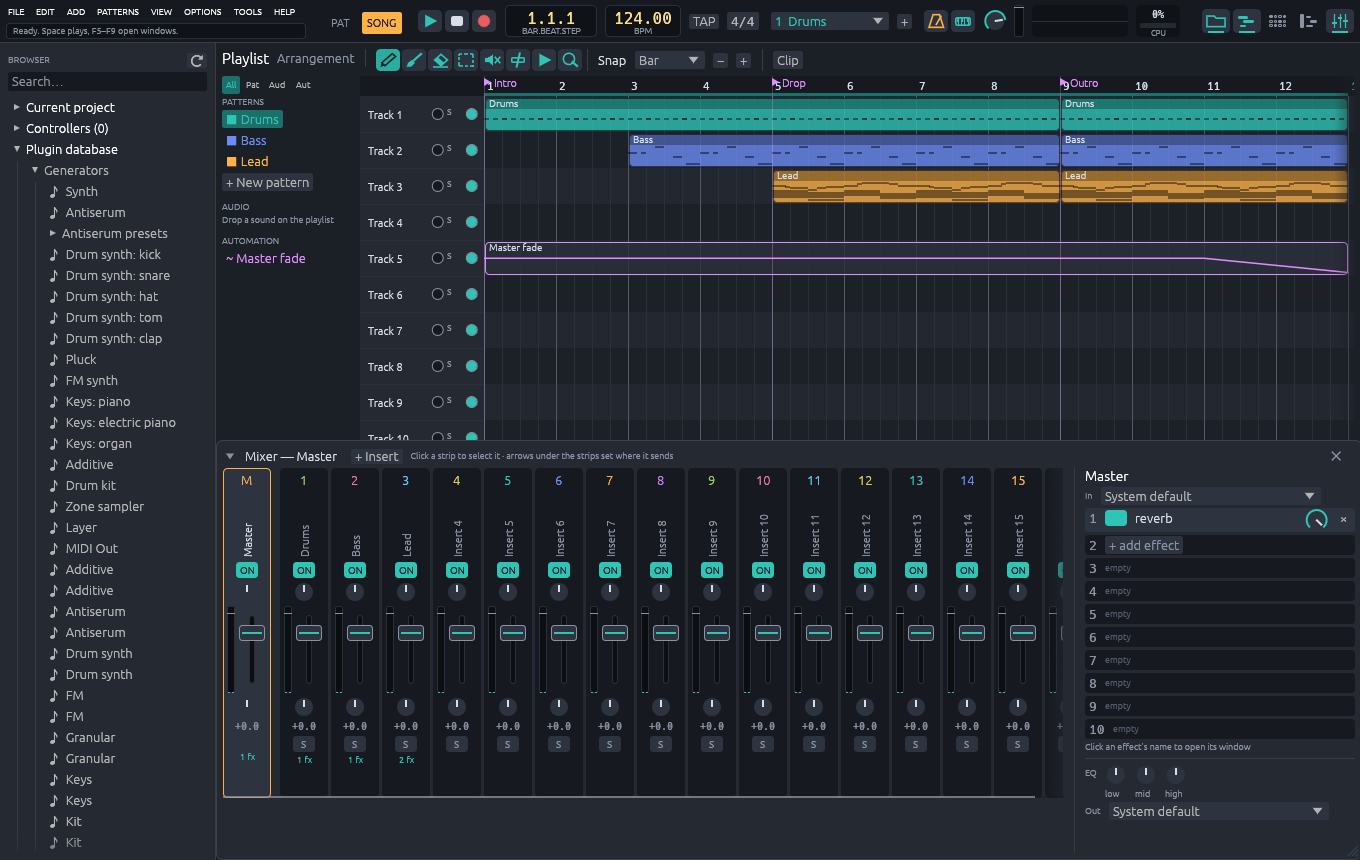
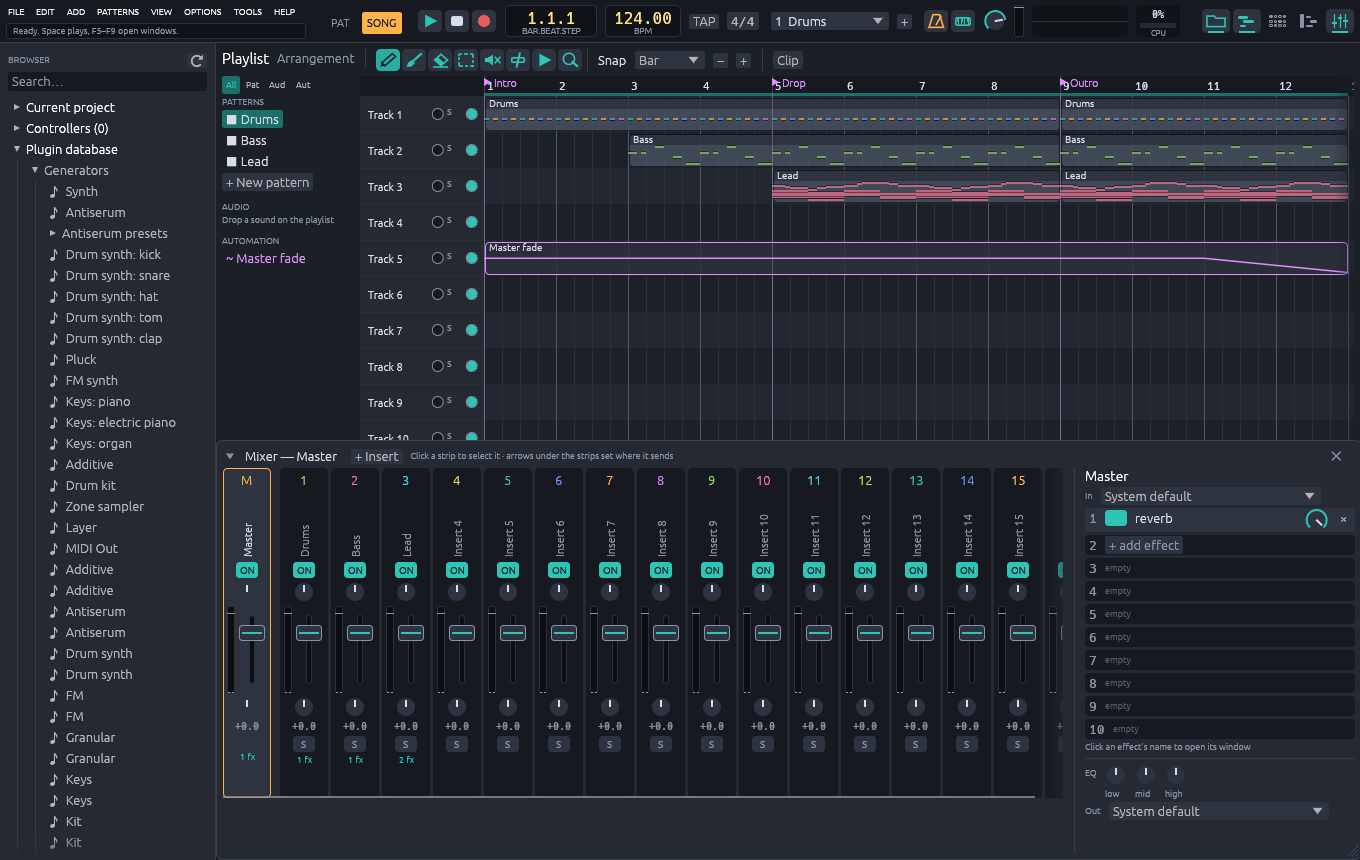
Patterns have no colour until one is set; clips show note colours
A pattern starts uncoloured. pattern.set_color <pattern> <1-16|none>
(undoable, also in the pattern list's right-click menu) gives it one.
Uncoloured clips are drawn in a neutral fill and pattern names in plain
text. Inside every pattern clip the notes are drawn in their own colours,
as in the piano roll (colour group, or the channel's colour), so one
pattern can show several.

Spec: docs/spec/playlist.md. README screenshots retaken.

Claude-Session: https://claude.ai/code/session_01X8R6FM9iA6hPcEY3geQZy2

Changed region(s): [[0.3397, 0.0907, 1.0, 0.2419], [0.1544, 0.1209, 0.1853, 0.2116], [0.5868, 0.0, 0.6176, 0.0302]]

diff --git a/crates/musiccraft-ui/src/playlist.rs b/crates/musiccraft-ui/src/playlist.rs
@@ -307,8 +307,8 @@ fn pattern_section(
             .show(ui, |ui| {
                 for (i, pattern) in project.patterns.iter().enumerate() {
                     let selected = i == project.current_pattern;
-                    let text =
-                        RichText::new(format!("■ {}", pattern.name)).color(theme::palette(i));
+                    let text = RichText::new(format!("■ {}", pattern.name))
+                        .color(crate::pattern_text(pattern));
                     let painting = state.playlist.paint_automation.is_none()
                         && state.playlist.paint_audio.is_none();
                     let response = ui.selectable_label(selected && painting, text);
@@ -334,6 +334,23 @@ fn pattern_section(
                             )));
                             ui.close();
                         }
+                        ui.menu_button("Colour", |ui| {
+                            let mut pick = |ui: &mut egui::Ui, text: RichText, arg: String| {
+                                if ui.button(text).clicked() {
+                                    actions.push(Action::Run(Invocation::new(
+                                        "pattern.set_color",
+                                        [(i + 1).to_string(), arg],
+                                    )));
+                                    ui.close();
+                                }
+                            };
+                            pick(ui, RichText::new("None"), "none".to_owned());
+                            for c in 0..16u8 {
+                                let text = RichText::new(format!("■ Colour {}", c + 1))
+                                    .color(theme::track_color(c));
+                                pick(ui, text, (c + 1).to_string());
+                            }
+                        });
                         let sig = pattern.time_signature;
                         ui.menu_button(format!("Time signature ({sig})…"), |ui| {
                             if let Some(new) =
@@ -623,10 +640,14 @@ fn draw_clip(
     let project = frame.project;
     let (color, name) = match clip.source {
         ClipSource::Pattern(id) => {
-            let index = project.pattern_position(id).unwrap_or(0);
+            let pattern = project
+                .pattern_position(id)
+                .and_then(|i| project.patterns.get(i));
             (
-                theme::palette(index),
-                project.patterns.get(index).map_or("", |p| p.name.as_str()),
+                pattern
+                    .and_then(crate::pattern_color)
+                    .unwrap_or(UNCOLOURED_CLIP),
+                pattern.map_or("", |p| p.name.as_str()),
             )
         }
         ClipSource::Automation(id) => (
@@ -697,7 +718,7 @@ fn draw_clip(
                 .pattern_position(id)
                 .and_then(|i| project.patterns.get(i))
             {
-                pattern_preview(painter, grid, pattern, body, start, length);
+                pattern_preview(painter, grid, project, pattern, body, (start, length));
             }
         }
         ClipSource::Automation(id) => {
@@ -765,13 +786,18 @@ fn draw_clip(
 const TITLE_HEIGHT: f32 = 11.0;
 
 /// Miniature of a pattern's notes, repeated across the clip.
+/// Fill of a clip whose pattern has no colour of its own.
+const UNCOLOURED_CLIP: Color32 = Color32::from_rgb(0x4a, 0x53, 0x63);
+
+/// The notes of `pattern` across a clip at `start` lasting `length`, each in
+/// its own colour as in the piano roll.
 fn pattern_preview(
     painter: &egui::Painter,
     grid: &Grid,
+    project: &Project,
     pattern: &musiccraft_project::Pattern,
     body: Rect,
-    start: u32,
-    length: u32,
+    (start, length): (u32, u32),
 ) {
     let period = pattern.length_ticks().max(1);
     let (lo, hi) = pattern
@@ -797,10 +823,17 @@ fn pattern_preview(
                     - (f32::from(note.key - lo.min(note.key)) / span) * (body.height() - 2.0)
                     - 1.0
             };
+            let tint = if note.props.color > 0 {
+                crate::piano_roll::note_color(note.props.color)
+            } else {
+                theme::palette(project.channel_position(note.channel).unwrap_or(0))
+            };
+            // A dark edge keeps notes readable on a coloured clip.
             painter.line_segment(
                 [pos2(x0, y), pos2(x1, y)],
-                Stroke::new(1.5, Color32::from_black_alpha(150)),
+                Stroke::new(3.0, Color32::from_black_alpha(110)),
             );
+            painter.line_segment([pos2(x0, y), pos2(x1, y)], Stroke::new(1.5, tint));
         }
         offset += period;
     }

diff --git a/crates/musiccraft-commands/src/cmds/pattern.rs b/crates/musiccraft-commands/src/cmds/pattern.rs
@@ -62,6 +62,12 @@ pub(super) fn commands() -> Vec<Box<dyn Command>> {
             rename,
         ),
         cmd(
+            "pattern.set_color",
+            "pattern.set_color <pattern> <1-16|none>",
+            "Colour a pattern; patterns have no colour until one is set.",
+            set_color,
+        ),
+        cmd(
             "pattern.set_length",
             "pattern.set_length <pattern> <steps>",
             "Set a pattern's length in steps.",
@@ -239,6 +245,31 @@ fn rename(project: &mut Project, args: &Args<'_>) -> Result<Outcome, CommandErro
     Ok(Outcome::undoable(
         format!("pattern {} renamed to {name}", index + 1),
         Invocation::new(args.name(), [(index + 1).to_string(), previous]),
+    ))
+}
+
+fn set_color(project: &mut Project, args: &Args<'_>) -> Result<Outcome, CommandError> {
+    args.expect(2, 2)?;
+    let index = pattern_arg(project, args, 0)?;
+    let color = match args.str(1)? {
+        "none" => None,
+        _ => {
+            let n = args.number(1, "colour")?;
+            if !(1..=16).contains(&n) {
+                return Err(args.invalid("colours are 1 to 16"));
+            }
+            Some(u8::try_from(n - 1).unwrap_or(0))
+        }
+    };
+    let previous = std::mem::replace(&mut project.patterns[index].color, color);
+    let label = |c: Option<u8>| c.map_or_else(|| "none".to_owned(), |c| (c + 1).to_string());
+    let message = format!("pattern {} colour {}", index + 1, label(color));
+    if previous == color {
+        return Ok(Outcome::done(message));
+    }
+    Ok(Outcome::undoable(
+        message,
+        Invocation::new(args.name(), [(index + 1).to_string(), label(previous)]),
     ))
 }
 

diff --git a/crates/musiccraft-ui/src/toolbar.rs b/crates/musiccraft-ui/src/toolbar.rs
@@ -205,7 +205,8 @@ fn patterns_menu(
     menu_item(ui, state, "Previous pattern", "pattern.prev", actions);
     ui.separator();
     for (i, pattern) in project.patterns.iter().enumerate() {
-        let text = RichText::new(format!("{}  {}", i + 1, pattern.name)).color(theme::palette(i));
+        let text = RichText::new(format!("{}  {}", i + 1, pattern.name))
+            .color(crate::pattern_text(pattern));
         if ui
             .selectable_label(i == project.current_pattern, text)
             .clicked()
@@ -593,12 +594,12 @@ fn transport(ui: &mut egui::Ui, state: &mut UiState, frame: &Frame<'_>, actions:
                 current + 1,
                 project.current_pattern().name
             ))
-            .color(theme::palette(current)),
+            .color(crate::pattern_text(project.current_pattern())),
         )
         .show_ui(ui, |ui| {
             for (i, pattern) in project.patterns.iter().enumerate() {
-                let text =
-                    RichText::new(format!("{}  {}", i + 1, pattern.name)).color(theme::palette(i));
+                let text = RichText::new(format!("{}  {}", i + 1, pattern.name))
+                    .color(crate::pattern_text(pattern));
                 if ui.selectable_label(i == current, text).clicked() {
                     run(actions, &format!("pattern.select {}", i + 1));
                 }

diff --git a/crates/musiccraft-commands/src/cmds/tests.rs b/crates/musiccraft-commands/src/cmds/tests.rs
@@ -86,6 +86,7 @@ const SCRIPT: &[&str] = &[
     "step.toggle 2 8",
     "pattern.clone 1",
     "pattern.rename 2 Chorus",
+    "pattern.set_color 2 5",
     "pattern.set_length 2 32",
     "project.set_swing 33",
     "note.clear 3 @1",
@@ -1885,4 +1886,18 @@ fn windows_sample_paths_localize_and_imports_report_them() {
     );
     musiccraft_paths::configure(musiccraft_paths::PathConfig::default());
     std::fs::remove_dir_all(root).unwrap();
+}
+
+#[test]
+fn patterns_have_no_colour_until_one_is_set() {
+    let mut s = session();
+    assert_eq!(s.project().patterns[0].color, None);
+    run(&mut s, "pattern.set_color 1 3");
+    assert_eq!(s.project().patterns[0].color, Some(2));
+    run(&mut s, "pattern.set_color 1 none");
+    assert_eq!(s.project().patterns[0].color, None);
+    run(&mut s, "edit.undo");
+    assert_eq!(s.project().patterns[0].color, Some(2));
+    fails(&mut s, "pattern.set_color 1 17");
+    fails(&mut s, "pattern.set_color 9 1");
 }

diff --git a/crates/musiccraft-ui/src/lib.rs b/crates/musiccraft-ui/src/lib.rs
@@ -520,6 +520,16 @@ const TYPING_KEYS: [(egui::Key, u8); 29] = {
 /// Key that the first typing-keyboard note (Z) plays: C4.
 const TYPING_BASE: u8 = 48;
 
+/// The colour the user gave a pattern; patterns have none by default.
+pub(crate) fn pattern_color(pattern: &musiccraft_project::Pattern) -> Option<egui::Color32> {
+    pattern.color.map(theme::track_color)
+}
+
+/// Colour of a pattern's name: its own colour, or plain text.
+pub(crate) fn pattern_text(pattern: &musiccraft_project::Pattern) -> egui::Color32 {
+    pattern_color(pattern).unwrap_or(theme::TEXT)
+}
+
 fn typing_note(key: egui::Key, modifiers: egui::Modifiers) -> Option<u8> {
     if modifiers.any() && !modifiers.shift_only() {
         return None;

diff --git a/crates/musiccraft-ui/src/browser.rs b/crates/musiccraft-ui/src/browser.rs
@@ -515,8 +515,8 @@ fn current_project(ui: &mut egui::Ui, frame: &Frame<'_>, search: &str, actions: 
                         if !matches(search, &pattern.name) {
                             continue;
                         }
-                        let text =
-                            RichText::new(format!("▪ {}", pattern.name)).color(theme::palette(i));
+                        let text = RichText::new(format!("▪ {}", pattern.name))
+                            .color(crate::pattern_text(pattern));
                         if ui
                             .add(egui::Button::new(text).frame(false))
                             .hint("Click to select this pattern")

diff --git a/crates/musiccraft-project/src/model.rs b/crates/musiccraft-project/src/model.rs
@@ -468,6 +468,9 @@ pub struct Pattern {
     /// The pattern's time signature.
     #[serde(default, skip_serializing_if = "TimeSig::is_common")]
     pub time_signature: TimeSig,
+    /// Colour index 0–15 (shown as 1–16) set by the user; none by default.
+    #[serde(default, skip_serializing_if = "Option::is_none")]
+    pub color: Option<u8>,
 }
 
 /// One parameter's automation inside a pattern; ticks from the pattern start.
@@ -497,6 +500,7 @@ impl Pattern {
             legacy_swing: 0.0,
             automation: Vec::new(),
             time_signature: sig,
+            color: None,
         }
     }
 

diff --git a/docs/spec/playlist.md b/docs/spec/playlist.md
@@ -74,6 +74,13 @@
 ## Clip kinds
 
 - **Pattern clips** (`playlist.add_clip`) play a pattern, repeating it.
+- **Pattern colour**: a pattern has no colour until one is set with
+  `pattern.set_color <pattern> <1-16|none>` (undoable; also from the pattern
+  list's right-click menu). An uncoloured pattern's clips are drawn in a
+  neutral fill and its name in the plain text colour. Inside a pattern clip
+  the notes are drawn in their own colours, as in the piano roll: a note's
+  colour group, or its channel's colour for group "channel". Notes of one
+  pattern can therefore show several colours.
 - **Audio clips** (`playlist.add_audio_clip <channel> <track> <start> <length>`)
   play a sampler channel's sample once from the clip start, unpitched (at the
   channel's root key), cut at the clip end. Dropping a sound from the browser on
@@ -205,6 +212,9 @@
   online manual, "Automation clips"; the formulas, ranges and step counts are
   our own.
 
+- Patterns without a colour of their own, with notes shown in their own
+  colours inside clips: the project owner's account of how the software
+  behaves (2026-10-21); the neutral fill is our own.
 - Pattern clips arranged on a playlist and a song/pattern mode switch follow the
   workflow described in the FL Studio online manual, "Playlist" section. Row
   count, overlap rule and command names are our own.

diff --git a/CHANGELOG.md b/CHANGELOG.md
@@ -15,6 +15,13 @@ commit; this file says what they add up to.
 - Taller step buttons, shaded more clearly by beat; a narrower browser,
   taller playlist tracks and a taller piano roll event lane.
 
+### Pattern colours
+
+- Patterns have no colour until you set one (right-click a pattern →
+  Colour, or `pattern.set_color`). Uncoloured clips are drawn neutral, and
+  the notes inside every pattern clip show their own colours, as in the
+  piano roll, so one pattern can show several.
+
 ### Fixes
 
 - Rendering a project twice in a DAW gives the same audio. A host reset,
